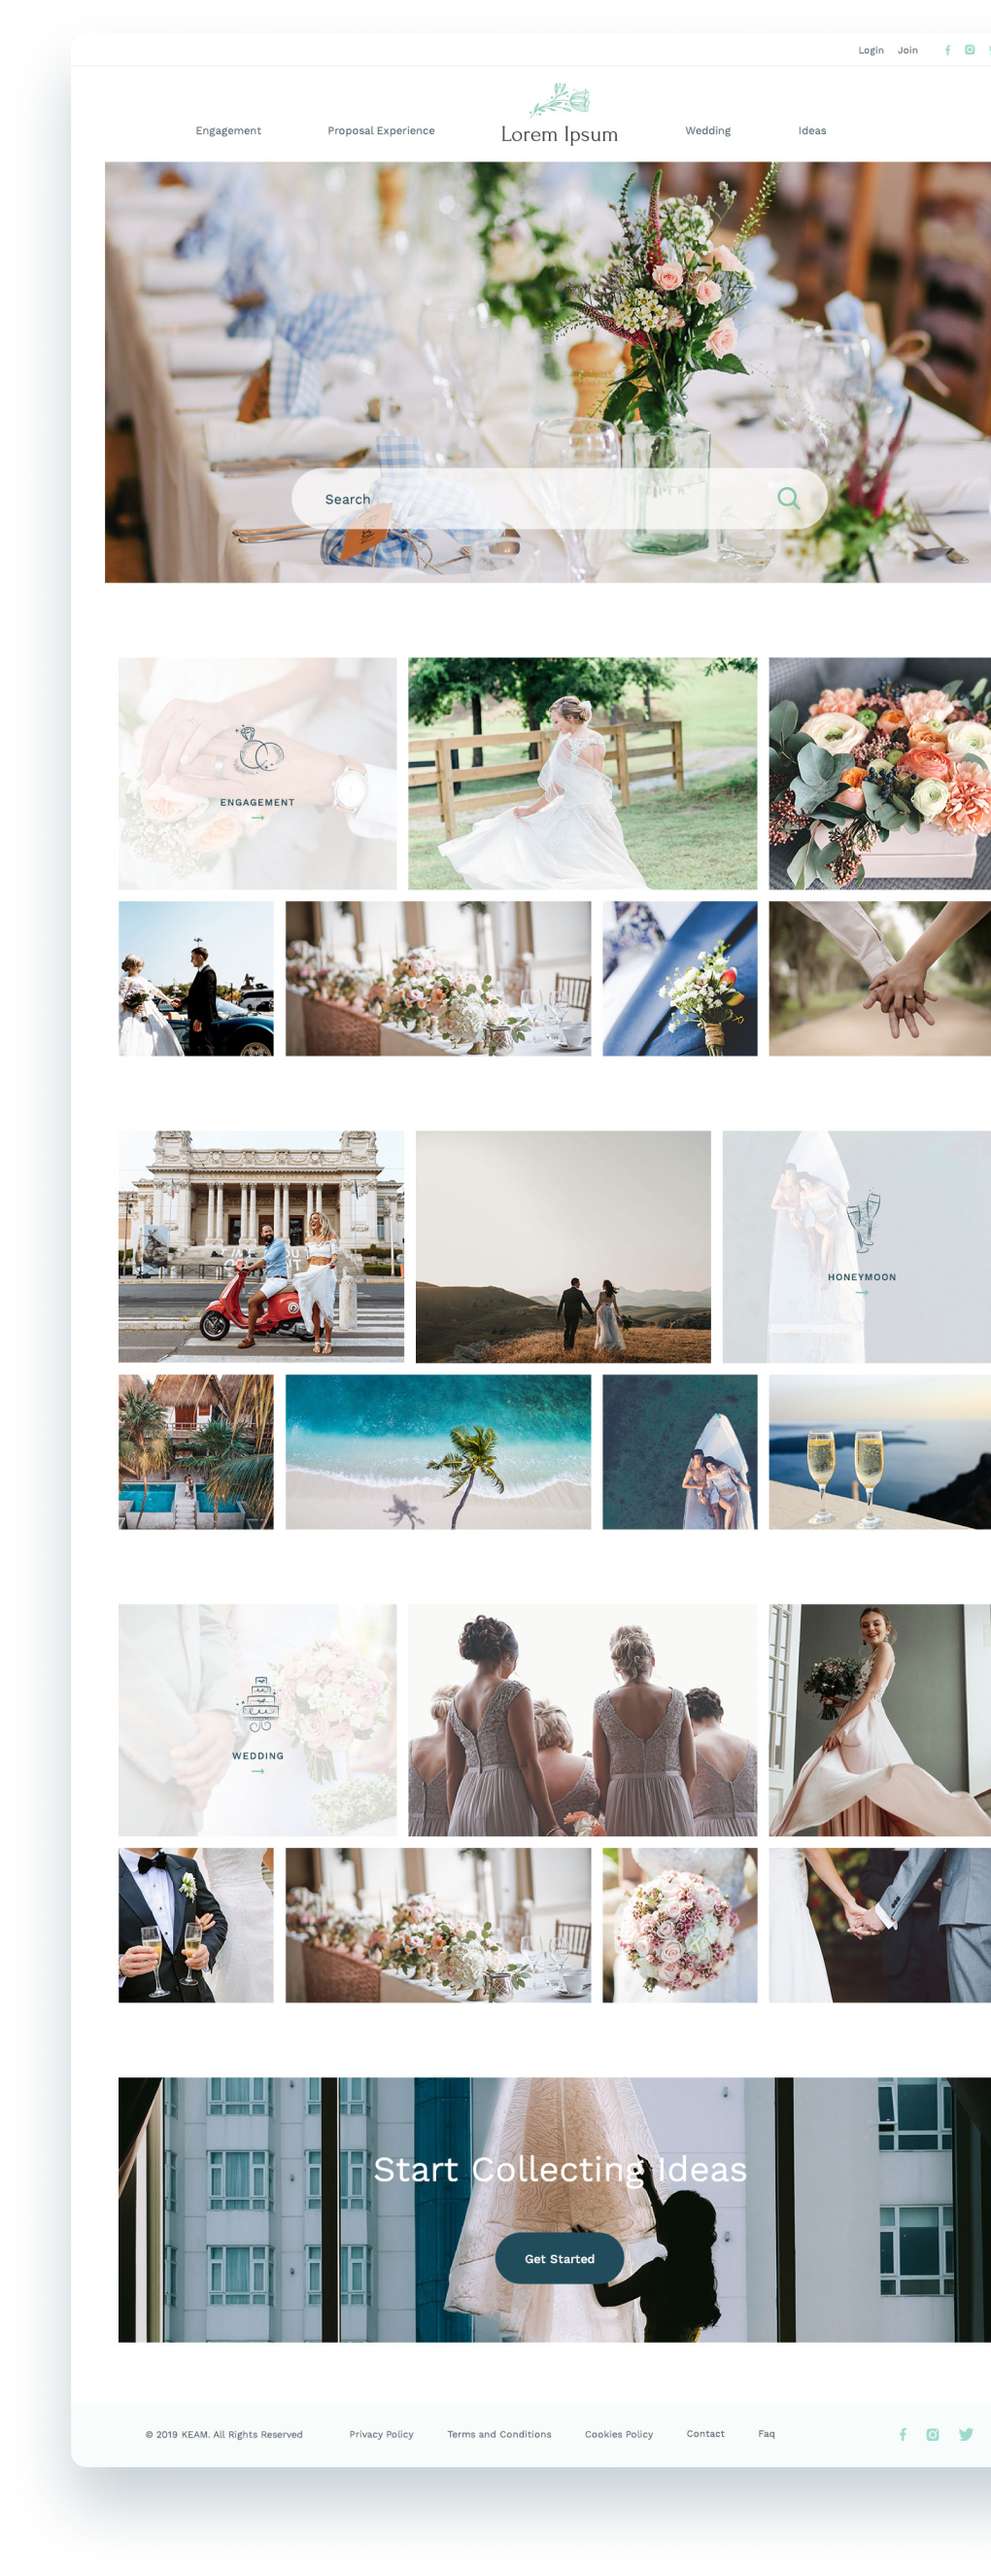
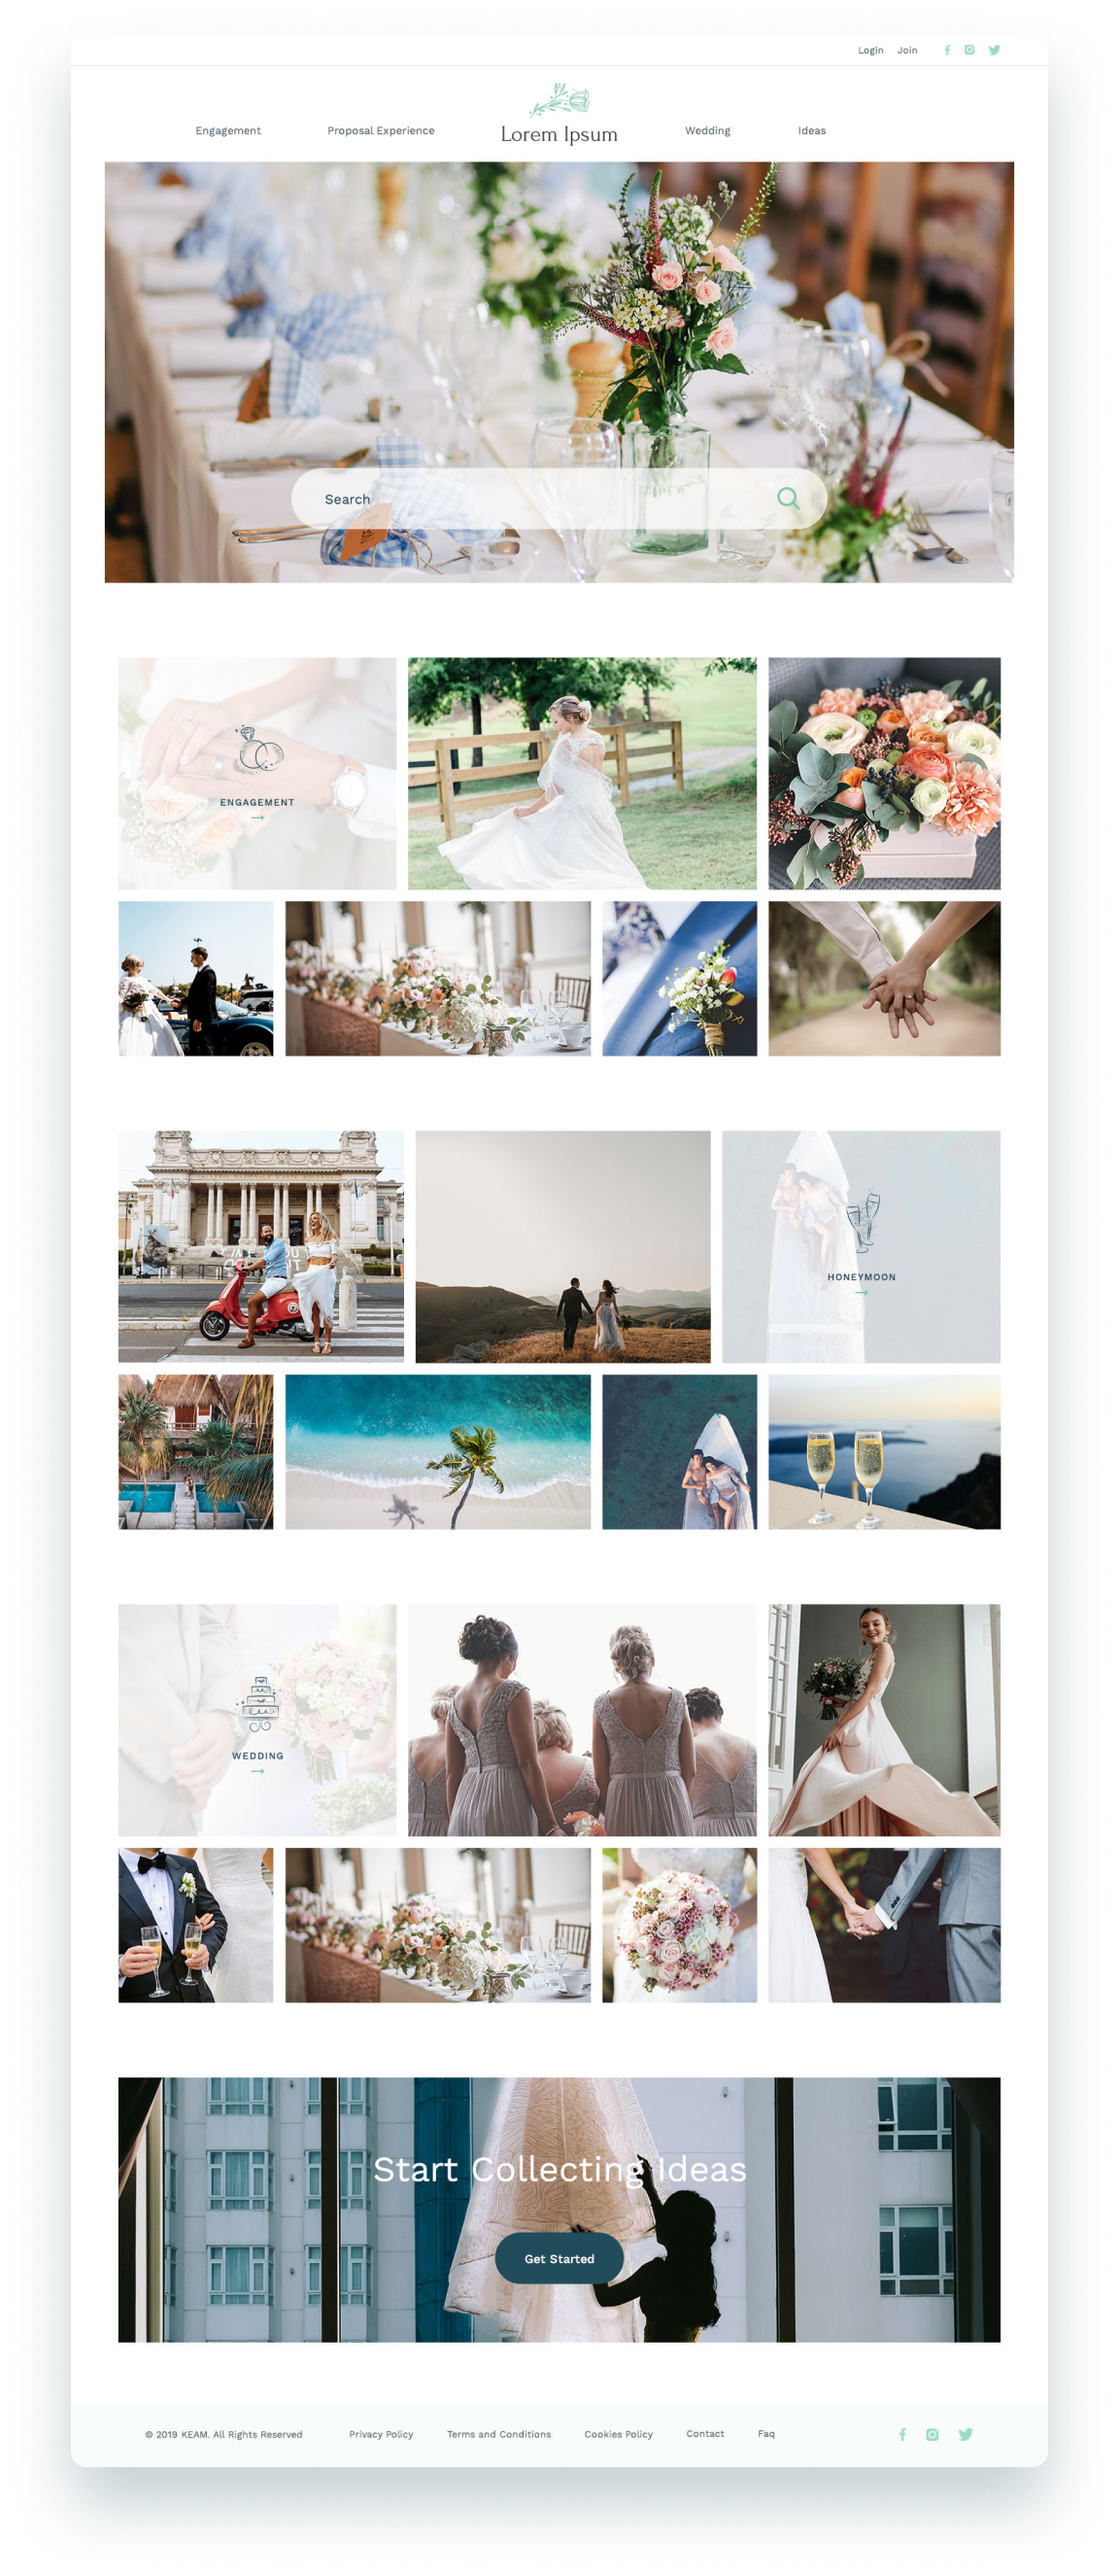
website pics fix

diff --git a/src/scss/current_project/website.scss b/src/scss/current_project/website.scss
@@ -7,10 +7,11 @@
   }
   .images {
     .img-wrap {
-      width: calc(50% + #{RelativeUnits(100, 1)});
+      min-width: calc(50% + #{RelativeUnits(180, 1)});
     }
     .first {
       z-index: 2;
+      margin-left: RelativeUnits(-60, 1);
     }
     .second {
       z-index: 1;
